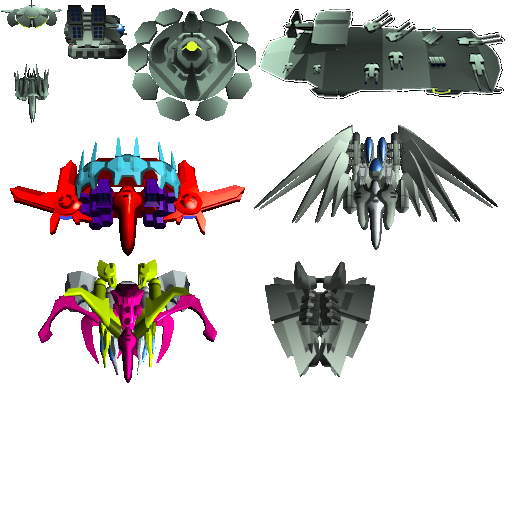
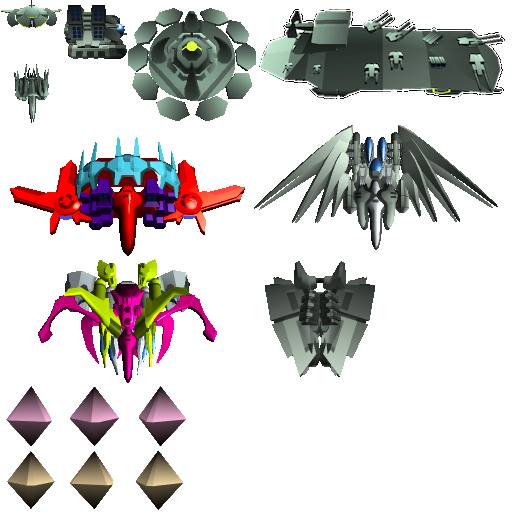
hibiki

Changed region(s): [[0.0, 0.75, 0.375, 1.0]]

diff --git a/src/enemy/EnemyHard.js b/src/enemy/EnemyHard.js
@@ -35,7 +35,7 @@ gls2.Enemy.DATA = {
     "hishikawa": [  2000,  2000000, false,  true, 20, {"radius":130}, ],
     "aida":      [  8000,  4000000, false,  true,  0, {"width":370, "heightBottom":5, "heightTop":60}, ],
     "minamino":  [  1500,  5000000,  true,  true, 30, {"width": 180, "heightTop":-(-350-25), "heightBottom":-350+25} ],
-    "houjou":    [ 10000,  8000000, false,  true,  0, {"width":300, "heightBottom":85, "heightTop":60}, ],
+    "houjou":    [ 10000,  8000000, false,  true,  0, {"width":220, "heightBottom":100, "heightTop":60}, ],
     "dory":      [   350,     2000, false,  true,  5, {"radius": 24} ],
     "rery":      [   250,     2000,  true, false,  5, {"radius": 24} ],
     "miry":      [   350,     2000, false,  true,  5, {"radius": 24} ],
@@ -1439,8 +1439,6 @@ gls2.Enemy.Rery = tm.createClass(
     init: function(gameScene, software) {
         this.superInit(gameScene, software, "rery", "kanade-cannon", 0);
         this.setScale(1.6*KANADE_SCALE);
-        // dory
-        // miry
     }
 });
 /**
@@ -1583,13 +1581,21 @@ gls2.Enemy.Dory = tm.createClass(
 
     init: function(gameScene, software) {
         this.superInit(gameScene, software, "dory");
-        this._sprite = _Sprite("tex1", 64, 64);
+        this._sprite = _Sprite("tex4", 64, 64).setFrameIndex(48);
+        this.setScale(1.5);
+        this.aura = gls2.Particle(80, 1.0, 0.8);
     },
     update: function(app) {
         gls2.Enemy.prototype.update.call(this, app);
+        this._sprite.setFrameIndex(48+Math.floor(app.frame/5)%3);
+        if (app.frame%2 === 0 && this.hp > 0) {
+            this.aura.clone()
+                .setPosition(this.x, this.y)
+                .addChildTo(this.gameScene);
+        }
     },
     draw: function(canvas) {
-        this._sprite.setFrameIndex((this.frame % 4 < 2) ? 0 : 1).draw(canvas);
+        this._sprite.draw(canvas);
     }
 });
 /**
@@ -1606,13 +1612,21 @@ gls2.Enemy.Miry = tm.createClass(
 
     init: function(gameScene, software) {
         this.superInit(gameScene, software, "miry");
-        this._sprite = _Sprite("tex1", 64, 64);
+        this._sprite = _Sprite("tex4", 64, 64).setFrameIndex(56);
+        this.setScale(1.5);
+        this.aura = gls2.Particle(80, 1.0, 0.8);
     },
     update: function(app) {
         gls2.Enemy.prototype.update.call(this, app);
+        this._sprite.setFrameIndex(56+Math.floor(app.frame/5)%3);
+        if (app.frame%2 === 0 && this.hp > 0) {
+            this.aura.clone()
+                .setPosition(this.x, this.y)
+                .addChildTo(this.gameScene);
+        }
     },
     draw: function(canvas) {
-        this._sprite.setFrameIndex((this.frame % 4 < 2) ? 0 : 1).draw(canvas);
+        this._sprite.draw(canvas);
     }
 });
 

diff --git a/src/enemy/EnemySoft.js b/src/enemy/EnemySoft.js
@@ -2105,9 +2105,9 @@ gls2.EnemySoft.Hibiki2 = tm.createClass(
         gls2.EnemySoft.prototype.setup.call(this, enemy);
 
         // ドリー
-        enemy.stage.launchEnemy({ "hard": gls2.Enemy.Dory, "soft": gls2.EnemySoft.Dory(enemy, "dory"), "x": 0, "y": SC_H*-0.3 }),
+        enemy.stage.launchEnemy({ "hard": gls2.Enemy.Dory, "soft": gls2.EnemySoft.Dory(enemy, "dory"), "x": SC_W/2, "y": SC_H*-0.3 }),
         // ミリー
-        enemy.stage.launchEnemy({ "hard": gls2.Enemy.Miry, "soft": gls2.EnemySoft.Miry(enemy, "miry"), "x": 0, "y": SC_H*-0.3 }),
+        enemy.stage.launchEnemy({ "hard": gls2.Enemy.Miry, "soft": gls2.EnemySoft.Miry(enemy, "miry"), "x": SC_W/2, "y": SC_H*-0.3 }),
         // スクロール速度アップ
         enemy.gameScene.ground.tweener.clear().to({
             speed: 16,
@@ -2212,8 +2212,7 @@ gls2.EnemySoft.HibikiBit = tm.createClass(
                 .to({
                     x: positions[pp].x + hibiki.x,
                     y: positions[pp].y + hibiki.y,
-                }, 1200, "easeInOutQuad")
-                .wait(2000)
+                }, 2000, "easeInOutSine")
                 .call(temp);
             pp = (pp+1)%positions.length;
         }.bind(enemy);

diff --git a/src/enemy/Danmaku.js b/src/enemy/Danmaku.js
@@ -2432,9 +2432,12 @@ gls2.Danmaku["hibiki-3-2"] = gls2.Danmaku["hibiki-1-1"];
 gls2.Danmaku["dory"] = new bulletml.Root({
     "top": $.action([
         $.repeat(999, [
-            $.fire(RS),
-            $interval(100),
+            $.actionRef("attack0"),
+            $.actionRef("attack1"),
         ]),
+    ]),
+    "attack0": $.action([
+        
     ]),
 });
 /**
@@ -2443,8 +2446,8 @@ gls2.Danmaku["dory"] = new bulletml.Root({
 gls2.Danmaku["miry"] = new bulletml.Root({
     "top": $.action([
         $.repeat(999, [
-            $.fire(BS),
-            $interval(100),
+            $.actionRef("attack0"),
+            $.actionRef("attack1"),
         ]),
     ]),
 });
